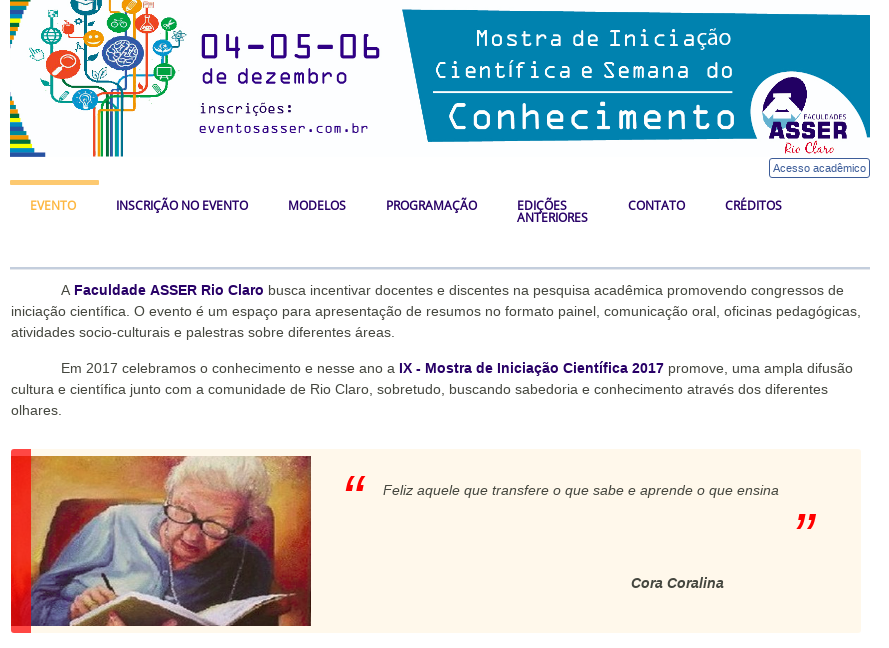
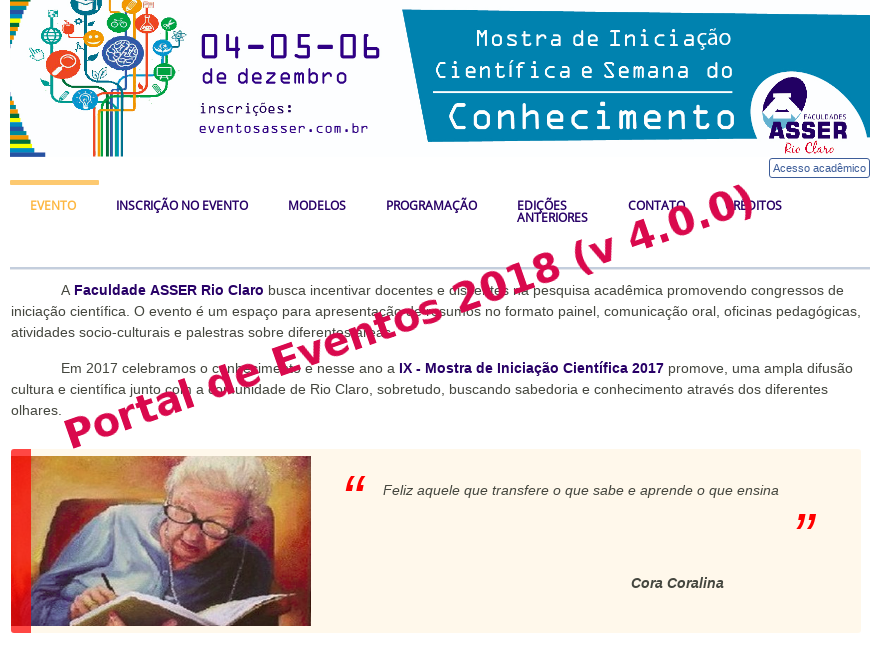
Commit inicial para portal de eventos 2018

Changed region(s): [[0.0607, 0.2778, 0.8504, 0.7099]]

diff --git a/README.md b/README.md
@@ -12,6 +12,13 @@ Atualmente, a plataforma "EventosAsser" é gratuita e é disponibilizada para do
   <img width="400" src="eventosasser.png" alt="Screenshot"/>
 </p>
 
+**v4.0.0 (2018)**
+   - Versão estável em *PRD* para liberação em 18 de nov. de 2018
+   - Modificada mensagem de abertura
+   - Modificada listagem de professores como Orientador
+   - Alterar datas de referência do cronograma
+   - Adicionar cronograma de atividades de atividades (pagantes e/ou não pagantes) 
+
 **v3.0.0 (2017)**
    - Versão estável em *PRD* liberada em 13 de nov. de 2017 as 14:09
    - Correções emergênciais efetuadas até dia 09 de dez. 2017
